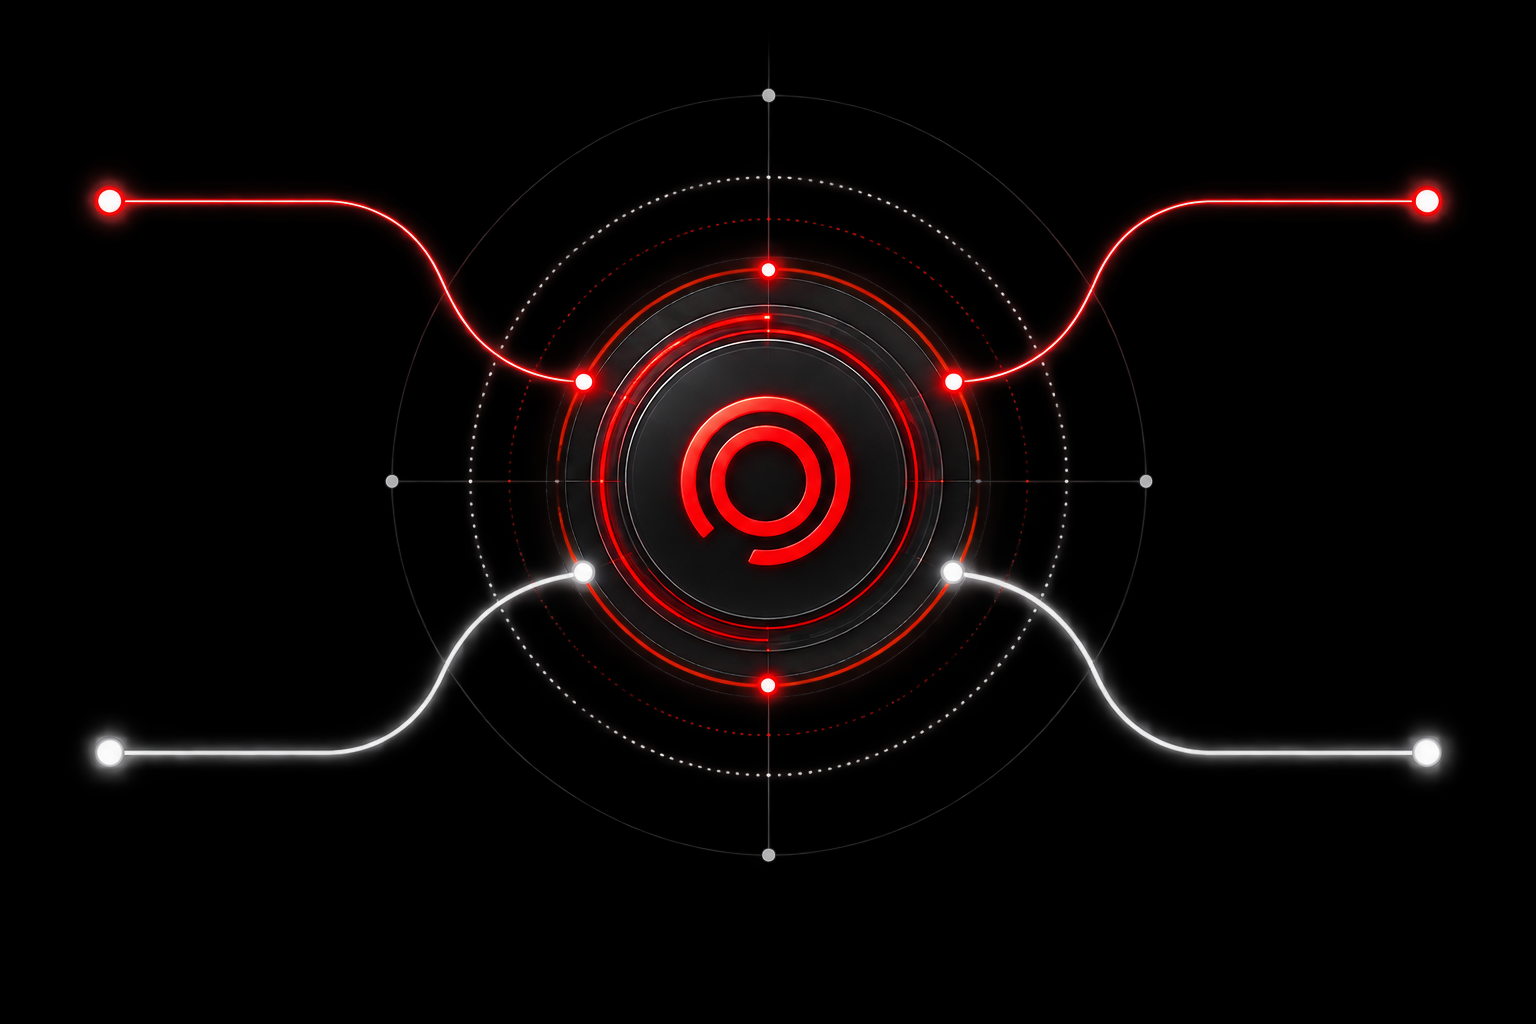
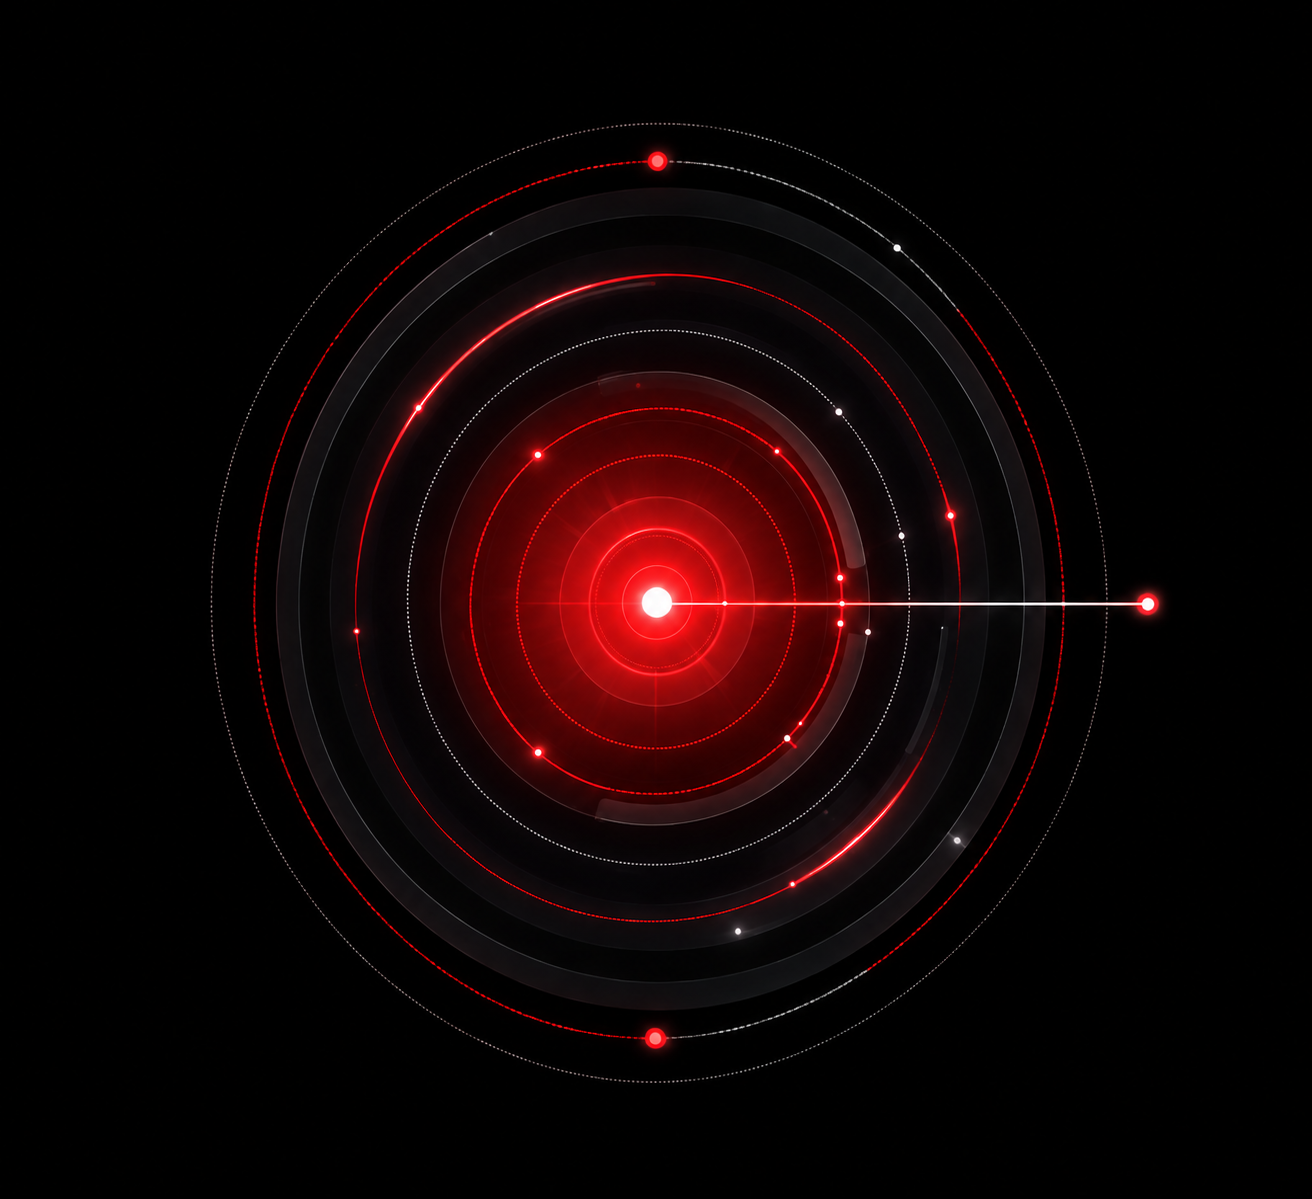
fix(hero): use the correct hero_central_decor asset, not central_decor
Downloaded the wrong Figma node for the laptop/tablet radar swap —
"central_decor" (1:107) is the Services hub graphic, not the intended
one. The correct node, currently selected in the Figma file, is
"hero_central_decor" (152:2): the same radar motif as .hero__radar, just
without the 4 card-connector lines. Replaced the asset file; no CSS
sizing changes needed since nothing there hardcoded the old node's
aspect ratio.

diff --git a/onvorx/src/sections/Hero/Hero.css b/onvorx/src/sections/Hero/Hero.css
@@ -104,9 +104,11 @@
   user-select: none;
 }
 
-/* laptop/tablet-only stand-in for .hero__radar (Figma's "central_decor",
-   the same compact hub graphic used in Services) — hidden by default,
-   shown instead of the radar starting at the 1200px breakpoint below. */
+/* laptop/tablet-only stand-in for .hero__radar (Figma's "hero_central_decor"
+   node — the same radar motif without the 4 card-connector lines, since
+   those don't line up with the stacked layout at this tier) — hidden by
+   default, shown instead of the radar starting at the 1200px breakpoint
+   below. */
 .hero__central-decor {
   display: none;
 }
@@ -210,10 +212,10 @@
 
 /* ================= Responsive ================= */
 
-/* radar crowds the cards — swap it for the more compact central_decor hub
-   graphic instead of just shrinking it back, per Figma's laptop/tablet
-   variant (continues to apply at the 1024px tier below too, since
-   nothing there overrides .hero__radar's display or .hero__central-decor). */
+/* radar crowds the cards — swap it for hero_central_decor instead of just
+   shrinking it back, per Figma's laptop/tablet variant (continues to
+   apply at the 1024px tier below too, since nothing there overrides
+   .hero__radar's display or .hero__central-decor). */
 @media (max-width: 1200px) {
   .hero__cards {
     width: clamp(240px, 40%, 300px);
